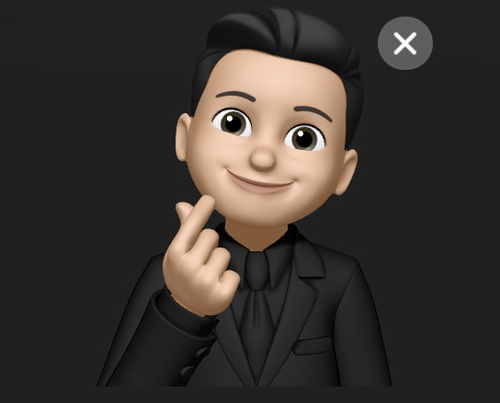
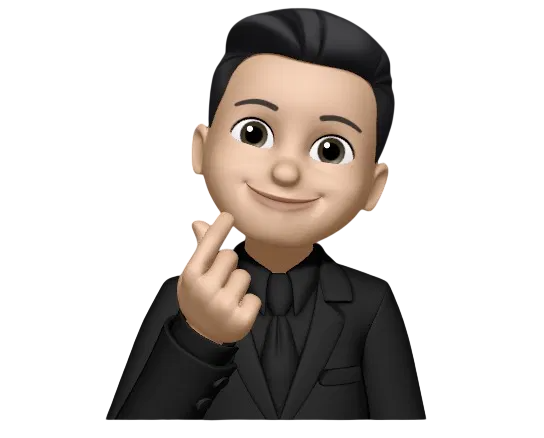
Memoji: прозрачный PNG в костюме, крупный размер 420px
Claude-Session: https://claude.ai/code/session_01EiysNJS3bBwfSDLA17B1or

diff --git a/index.html b/index.html
@@ -133,7 +133,7 @@ section.s{padding:100px 0;position:relative;z-index:2}
 /* ABOUT */
 .about-grid{display:grid;gap:48px;margin-top:48px;align-items:center}
 @media(min-width:768px){.about-grid{grid-template-columns:1fr 1.4fr}}
-.about-avatar{width:100%;max-width:280px;display:flex;align-items:flex-end;justify-content:center}
+.about-avatar{width:100%;max-width:420px;display:flex;align-items:flex-end;justify-content:center}
 .about-avatar img{width:100%;height:auto;display:block}
 .about-text p{font-size:16px;color:var(--fg2);line-height:1.65;margin-top:16px}
 .about-tags{display:flex;flex-wrap:wrap;gap:8px;margin-top:24px}
